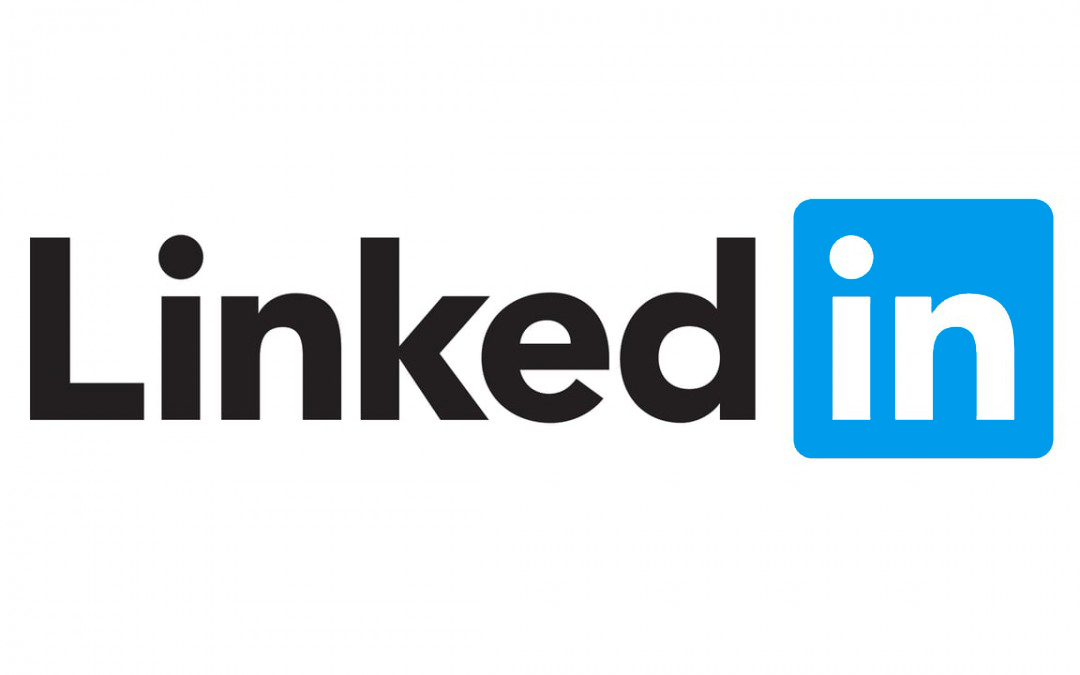
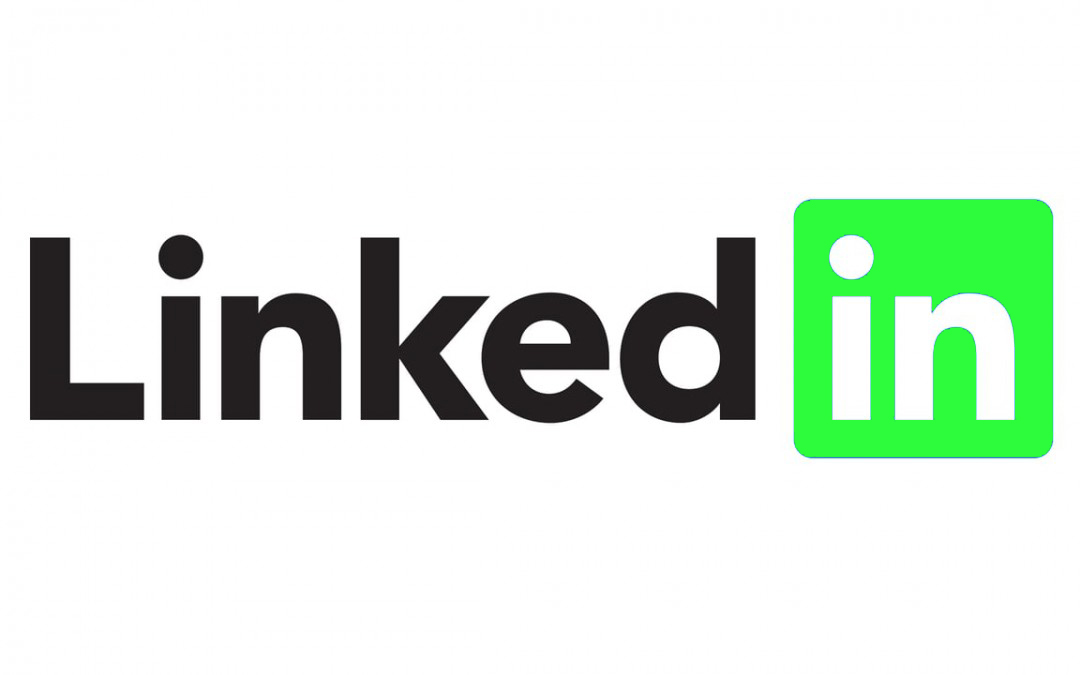
changement couleur false site

Changed region(s): [[0.7333, 0.28, 0.9778, 0.6844]]

diff --git a/site-web/css/main.scss b/site-web/css/main.scss
@@ -92,7 +92,7 @@ body {
             #submit-false {
                 width: 97%;
                 padding: 13px;
-                background-color: #009beb;
+                background-color: #2cfc3b;
                 border: none;
                 border-radius: 2px;
                 color: white;
@@ -122,7 +122,7 @@ body {
         .con-mdp {
             margin-top: -2.5%;
             .blue {
-                color: #009beb;
+                color: #2cfc3b;
             }
             text-align: center;
             padding: 1%;

diff --git a/site-web/css/main.css b/site-web/css/main.css
@@ -148,7 +148,7 @@ html .content .con-form #submit-false,
 body .content .con-form #submit-false {
   width: 97%;
   padding: 13px;
-  background-color: #009beb;
+  background-color: #2cfc3b;
   border: none;
   border-radius: 2px;
   color: white;
@@ -190,7 +190,7 @@ body .content .con-mdp {
 
 html .content .con-mdp .blue,
 body .content .con-mdp .blue {
-  color: #009beb;
+  color: #2cfc3b;
 }
 
 html footer,
